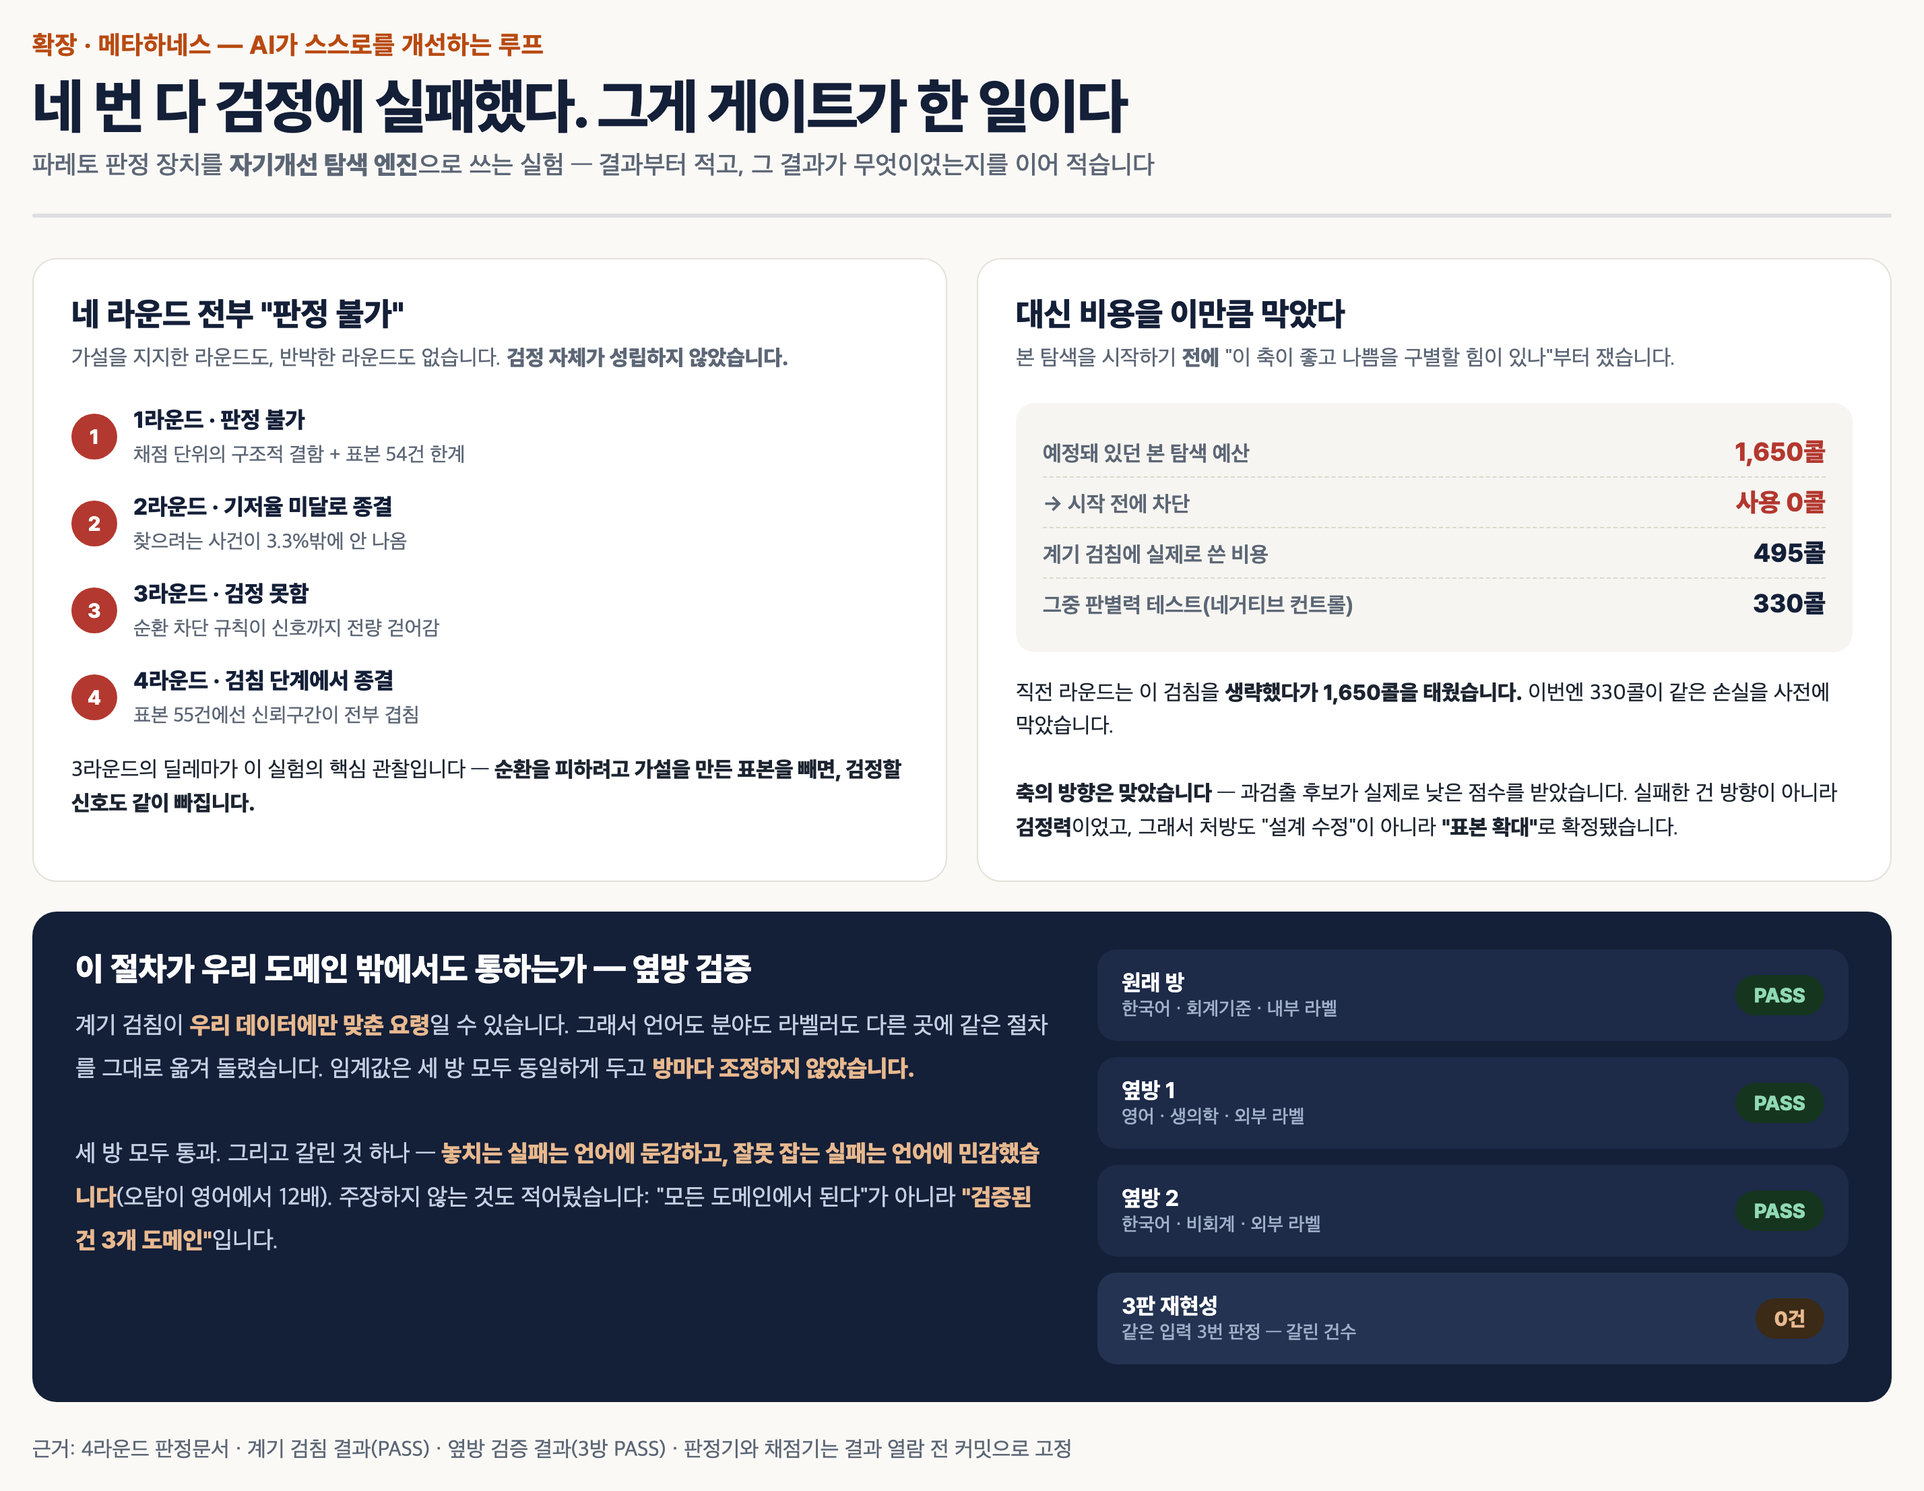
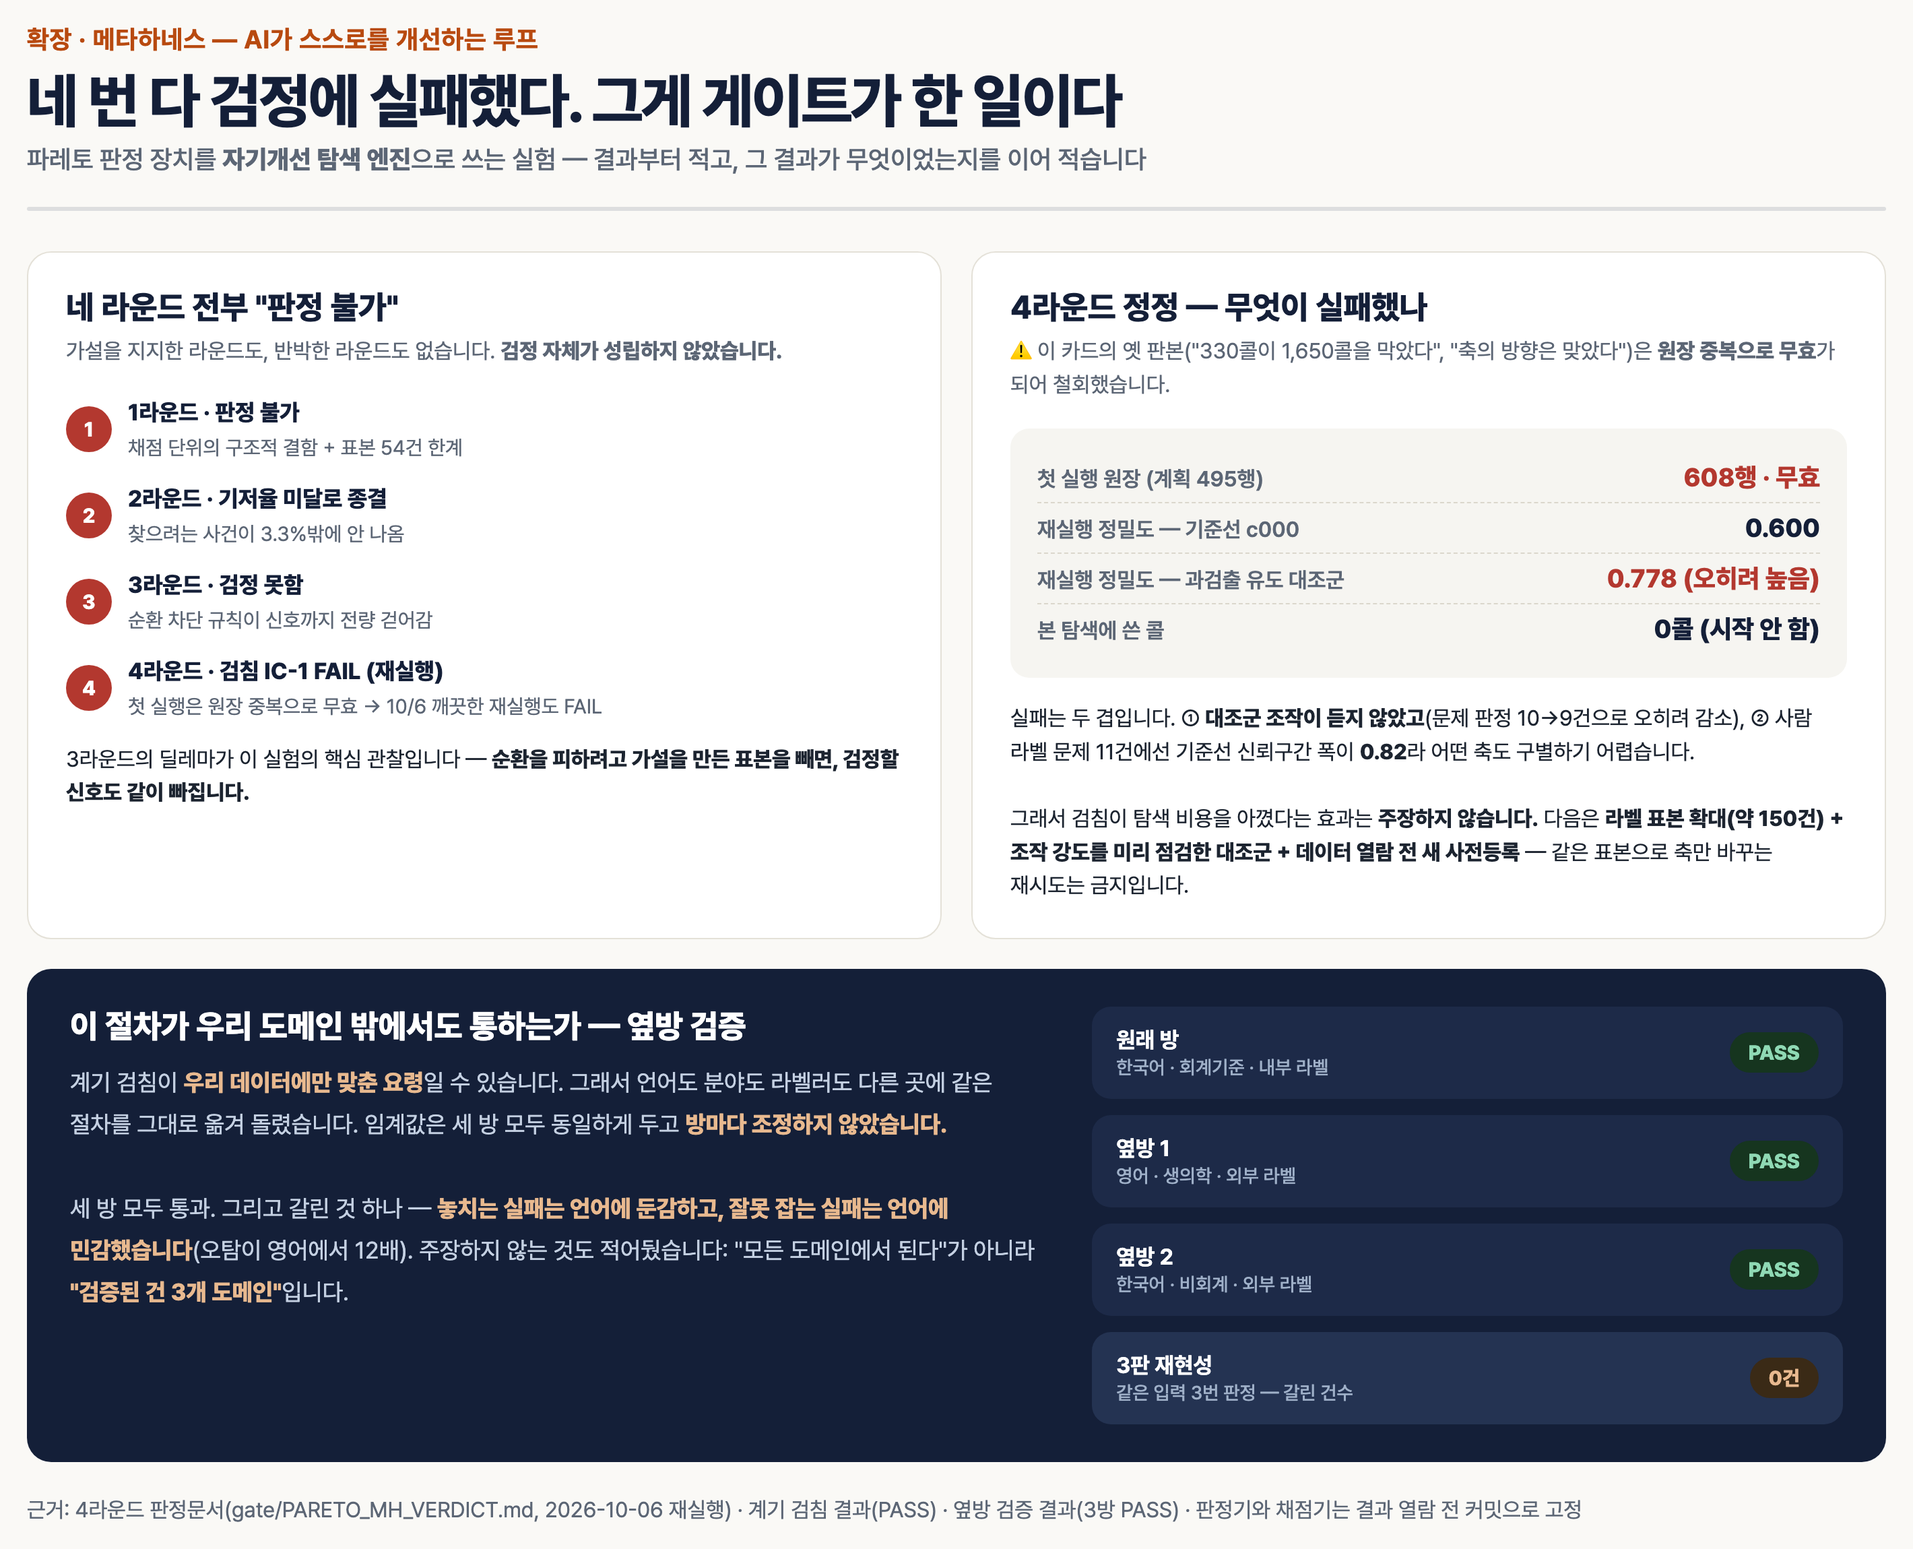
docs: 2026-10-23 literature recheck — multi-objective harness optimizers (HarnessPro, RRSI, Harmony, MoMHa, Meta-Harness++, MOEvo, CRAFT, MO-CAPO); narrow novelty to the combination; fix stale IC-1 claims in field-report fig 05; add landscape infographic

diff --git a/assets/metaharness-landscape.ko.html b/assets/metaharness-landscape.ko.html
@@ -1,0 +1,45 @@
+<!doctype html><html lang="ko"><meta charset="utf-8"><style>
+body{margin:0;width:1500px;background:#FAF9F6;font-family:'Pretendard',-apple-system,'Apple SD Gothic Neo',sans-serif;color:#141F38;word-break:keep-all}
+.w{padding:56px 64px} .k{font-size:22px;color:#B84A10;font-weight:700;letter-spacing:.04em}
+h1{font-size:44px;margin:8px 0 10px} .sub{font-size:22px;color:#5C6675;margin-bottom:26px}
+h2{font-size:27px;margin:0 0 14px}
+.box{background:#fff;border:2px solid #E5E2DA;border-radius:18px;padding:24px 28px;margin-bottom:18px}
+table{border-collapse:collapse;width:100%;font-size:20px}
+th{font-size:19px;color:#5C6675;text-align:left;padding:8px 10px;border-bottom:2px solid #E5E2DA}
+td{padding:9px 10px;border-bottom:1px solid #EEECE6;vertical-align:top}
+td.n{font-weight:700;white-space:nowrap} td.n small{display:block;font-weight:500;color:#888;font-size:15px}
+.y{color:#1E7B4F;font-weight:800} .p{color:#B8860B;font-weight:800} .x{color:#B3382F;font-weight:800}
+tr.us td{background:#FFF6EC} .note{font-size:15px;color:#777;display:block}
+.two{display:grid;grid-template-columns:1fr 1fr;gap:18px}
+.rule{font-size:21px;line-height:1.6} .big{font-size:40px;font-weight:800}
+.foot{font-size:17px;color:#666;line-height:1.5;margin-top:4px}
+</style><div class="w">
+<div class="k">META-HARNESS × PARETO · 2026-10-23 문헌 재대조</div>
+<h1>요소마다 선행이 있다 — 남는 건 '한 판정식 안의 결합'뿐</h1>
+<div class="sub">자기개선 하네스 최적화 구현을 C1의 네 요소로 나눠 대조했다 (읽은 범위 15건 중 주요 10건)</div>
+<div class="box"><table>
+<tr><th style="width:24%">구현</th><th>E1 지표 축 전선 + 지배</th><th>E2 판정 안의 노이즈 규칙</th><th>E3 판정 거부 출력</th><th>E4 탐색 전 축 판별력 검침</th></tr>
+<tr><td class="n">Meta-Harness<small>2603.28052 · 원본</small></td><td class="x">✗ <span class="note">"Pareto dominance" 문장만</span></td><td class="x">✗</td><td class="x">✗</td><td class="x">✗</td></tr>
+<tr><td class="n">GEPA<small>2507.19457 + 레포</small></td><td class="p">△ <span class="note">목적별 최고점만 전선</span></td><td class="x">✗</td><td class="x">✗</td><td class="x">✗</td></tr>
+<tr><td class="n">HarnessPro<small>2610.26770 · 10/20</small></td><td class="y">✅ <span class="note">성능↔비용 지배 필터</span></td><td class="x">✗ <span class="note">과제당 1회 점추정</span></td><td class="x">✗</td><td class="p">△ <span class="note">생성 테스트 재현율 점검</span></td></tr>
+<tr><td class="n">RRSI<small>2609.24972 · 10/4</small></td><td class="x">✗ <span class="note">단일 incumbent</span></td><td class="y">✅ <span class="note">노이즈 대역 δ (전역)</span></td><td class="p">△ <span class="note">대역 안이면 유지</span></td><td class="x">✗</td></tr>
+<tr><td class="n">Harmony Harness<small>2610.15150 · 10/10</small></td><td class="p">△ <span class="note">분해형, 수락은 스칼라</span></td><td class="x">✗</td><td class="x">✗</td><td class="p">△ <span class="note">판정기 보정·채점 잠금</span></td></tr>
+<tr><td class="n">MoMHa<small>2609.30967 · 9/25</small></td><td class="x">✗ <span class="note">가중합, 전선은 사후</span></td><td class="x">✗</td><td class="x">✗</td><td class="x">✗</td></tr>
+<tr><td class="n">Meta-Harness++<small>GitHub 134747a</small></td><td class="y">✅ <span class="note">정확도·토큰·지연</span></td><td class="p">△ <span class="note">전선 밖 승격 단계만 CI</span></td><td class="p">△ <span class="note">승격 보류</span></td><td class="x">✗</td></tr>
+<tr><td class="n">MOEvo · CRAFT · MO-CAPO</td><td class="y">✅</td><td class="p">△ <span class="note">CRAFT 코드 옵션 · MO-CAPO 평가 추가</span></td><td class="x">✗</td><td class="x">✗</td></tr>
+<tr class="us"><td class="n">우리 (명세)<small>pareto-measurement-gates</small></td><td class="y">✅</td><td class="y">✅ <span class="note">후보별 CI 비겹침</span></td><td class="y">✅ <span class="note">INCOMPARABLE</span></td><td class="x">✅ 명세 · <b>실행 FAIL</b> <span class="note">IC-1, 탐색 0콜</span></td></tr>
+</table></div>
+<div class="two">
+<div class="box"><h2>그래서 주장은 이만큼만</h2><div class="rule">
+✅ 네 요소를 <b>한 판정식 안에</b> 명세한 구현은 읽은 범위에 없다<br>
+✗ 요소별 새로움 — 전부 선행 있음<br>
+✗ "결합이 더 나은 탐색을 만든다" — 미검증(C13)<br>
+가장 가까운 선행: GEPA → <b>HarnessPro + RRSI</b></div></div>
+<div class="box"><h2>우리 메타하네스의 현재 위치</h2><div class="rule">
+부품 7종(제안자·실행기·채점·전선·기록·선택·예산) <b class="y">보유</b><br>
+기록 = 기준선 <b>1행</b> · 본 탐색 <b>0콜</b><br>
+막힌 곳 = 계기 검침 IC-1 (라벨 11건, CI 폭 0.82)<br>
+다음 = 라벨 약 150건 + 대조군 사전점검 + 새 사전등록</div></div>
+</div>
+<div class="foot">✅ 갖춤 · △ 부분 · ✗ 없음(읽은 범위). 정본: LIT_CHECK_20261023.md · 정독 노트 3건(인용·절 번호). 판정은 원문 본문·핵심 부록·공개 코드 기준이며, 일부 부록·미공개 코드는 미확인.</div>
+</div></html>

diff --git a/docs/field-report/05_metaharness.html b/docs/field-report/05_metaharness.html
@@ -29,6 +29,8 @@ body{width:1500px}
 .room .nm{font-size:16.5px;font-weight:700;color:#fff}
 .room .nm span{display:block;font-size:14px;color:#9FB0C8;font-weight:500;margin-top:2px}
 .room .pass{font-size:15px;font-weight:800;color:#8FD9B4;background:#16351F;padding:6px 14px;border-radius:999px}
+body{word-break:keep-all}
+.room .pass{white-space:nowrap}
 </style>
 <div class="kicker">확장 · 메타하네스 — AI가 스스로를 개선하는 루프</div>
 <h1>네 번 다 검정에 실패했다. 그게 게이트가 한 일이다</h1>
@@ -42,24 +44,25 @@ body{width:1500px}
     <div class="stage f"><div class="dot">1</div><div class="tx"><b>1라운드 · 판정 불가</b><span>채점 단위의 구조적 결함 + 표본 54건 한계</span></div></div>
     <div class="stage f"><div class="dot">2</div><div class="tx"><b>2라운드 · 기저율 미달로 종결</b><span>찾으려는 사건이 3.3%밖에 안 나옴</span></div></div>
     <div class="stage f"><div class="dot">3</div><div class="tx"><b>3라운드 · 검정 못함</b><span>순환 차단 규칙이 신호까지 전량 걷어감</span></div></div>
-    <div class="stage f"><div class="dot">4</div><div class="tx"><b>4라운드 · 검침 단계에서 종결</b><span>표본 55건에선 신뢰구간이 전부 겹침</span></div></div>
+    <div class="stage f"><div class="dot">4</div><div class="tx"><b>4라운드 · 검침 IC-1 FAIL (재실행)</b><span>첫 실행은 원장 중복으로 무효 → 10/6 깨끗한 재실행도 FAIL</span></div></div>
     <div class="cap" style="margin:16px 0 0;color:var(--text)">3라운드의 딜레마가 이 실험의 핵심 관찰입니다 —
       <b>순환을 피하려고 가설을 만든 표본을 빼면, 검정할 신호도 같이 빠집니다.</b></div>
   </div>
 
   <div class="card2">
-    <h3>대신 비용을 이만큼 막았다</h3>
-    <div class="cap">본 탐색을 시작하기 <b>전에</b> "이 축이 좋고 나쁨을 구별할 힘이 있나"부터 쟀습니다.</div>
+    <h3>4라운드 정정 — 무엇이 실패했나</h3>
+    <div class="cap">⚠ 이 카드의 옛 판본("330콜이 1,650콜을 막았다", "축의 방향은 맞았다")은 <b>원장 중복으로 무효</b>가 되어 철회했습니다.</div>
     <div class="ledger">
-      <div class="r"><div class="k">예정돼 있던 본 탐색 예산</div><div class="v cut">1,650콜</div></div>
-      <div class="r"><div class="k">→ 시작 전에 차단</div><div class="v" style="color:var(--neg)">사용 0콜</div></div>
-      <div class="r"><div class="k">계기 검침에 실제로 쓴 비용</div><div class="v">495콜</div></div>
-      <div class="r"><div class="k">그중 판별력 테스트(네거티브 컨트롤)</div><div class="v">330콜</div></div>
+      <div class="r"><div class="k">첫 실행 원장 (계획 495행)</div><div class="v cut">608행 · 무효</div></div>
+      <div class="r"><div class="k">재실행 정밀도 — 기준선 c000</div><div class="v">0.600</div></div>
+      <div class="r"><div class="k">재실행 정밀도 — 과검출 유도 대조군</div><div class="v" style="color:var(--neg)">0.778 (오히려 높음)</div></div>
+      <div class="r"><div class="k">본 탐색에 쓴 콜</div><div class="v">0콜 (시작 안 함)</div></div>
     </div>
     <div class="cap" style="margin:18px 0 0;color:var(--text)">
-      직전 라운드는 이 검침을 <b>생략했다가 1,650콜을 태웠습니다.</b> 이번엔 330콜이 같은 손실을 사전에 막았습니다.<br><br>
-      <b>축의 방향은 맞았습니다</b> — 과검출 후보가 실제로 낮은 점수를 받았습니다.
-      실패한 건 방향이 아니라 <b>검정력</b>이었고, 그래서 처방도 "설계 수정"이 아니라 <b>"표본 확대"</b>로 확정됐습니다.
+      실패는 두 겹입니다. ① <b>대조군 조작이 듣지 않았고</b>(문제 판정 10→9건으로 오히려 감소),
+      ② 사람 라벨 문제 11건에선 기준선 신뢰구간 폭이 <b>0.82</b>라 어떤 축도 구별하기 어렵습니다.<br><br>
+      그래서 검침이 탐색 비용을 아꼈다는 효과는 <b>주장하지 않습니다.</b>
+      다음은 <b>라벨 표본 확대(약 150건) + 조작 강도를 미리 점검한 대조군 + 데이터 열람 전 새 사전등록</b> — 같은 표본으로 축만 바꾸는 재시도는 금지입니다.
     </div>
   </div>
 </div>
@@ -80,4 +83,4 @@ body{width:1500px}
   </div>
 </div>
 
-<div class="foot">근거: 4라운드 판정문서 · 계기 검침 결과(PASS) · 옆방 검증 결과(3방 PASS) · 판정기와 채점기는 결과 열람 전 커밋으로 고정</div>
+<div class="foot">근거: 4라운드 판정문서(gate/PARETO_MH_VERDICT.md, 2026-10-06 재실행) · 계기 검침 결과(PASS) · 옆방 검증 결과(3방 PASS) · 판정기와 채점기는 결과 열람 전 커밋으로 고정</div>

diff --git a/README.md b/README.md
@@ -611,9 +611,17 @@ done
 
 ### 메타하네스 문헌 대조 (결정 15)
 
-front를 부모 선택 규칙으로 쓰는 사례를 찾기 위한 6소스 대조. 요지는
-"자기개선 계층에는 없고, 타 도메인(수식 발견·라우팅)에만 부분적으로 있다"이며
-표는 [`gate/PARETO_META_HARNESS_DESIGN.md`](gate/PARETO_META_HARNESS_DESIGN.md) §2.
+front를 부모 선택 규칙으로 쓰는 사례를 찾기 위한 6소스 대조(2026-08). 표는
+[`gate/PARETO_META_HARNESS_DESIGN.md`](gate/PARETO_META_HARNESS_DESIGN.md) §2.
+
+> ⚠ **2026-10-23 정정:** 당시 요지("자기개선 계층에는 없다")는 낡았다. 2026년 5~10월에
+> 다목적 하네스 최적화가 연달아 나왔다 — 성능↔비용 지배 필터와 전선 기반 다음 세대
+> 선택(HarnessPro, arXiv 2610.26770), 노이즈 대역 수락(RRSI, 2609.24972), 분해형 다목적
+> 진화(Harmony Harness, 2610.15150), 가중합 3축(MoMHa, 2609.30967), Meta-Harness++, MOEvo,
+> 프롬프트 층의 CRAFT·MO-CAPO. 요소별로는 전부 선행이 있다. 남는 것은 **지표 축 전선의 지배
+> 판정 안에 노이즈 규칙·판정 거부를 두고 탐색 전에 축 판별력을 검침하는 결합**뿐이며,
+> 우리는 그 결합을 명세했을 뿐 효과는 보이지 못했다(IC-1 FAIL, 탐색 0콜).
+> ![메타하네스 지형도](assets/metaharness-landscape.ko.png)
 🔴 그중 TRACE-Router가 남긴 경고 — **front 점유 주장에는 무작위 혼합 대조군이
 필요하다**("random mixture also traces the line segment").
 

diff --git a/README.en.md b/README.en.md
@@ -708,10 +708,19 @@ one assumes — and where they fail to hold for a harness — are in
 
 ### Meta-harness literature survey (decision 15)
 
-A six-source survey looking for front-as-parent-selection. The finding: absent in
-the self-improvement layer, only partially present in other domains (equation
-discovery, routing). Table in
+A six-source survey looking for front-as-parent-selection (2026-08). Table in
 [`gate/PARETO_META_HARNESS_DESIGN.md`](gate/PARETO_META_HARNESS_DESIGN.md) §2.
+
+> ⚠ **Correction (2026-10-23):** the original finding ("absent in the
+> self-improvement layer") is outdated. Multi-objective harness optimizers
+> appeared through May–Oct 2026: a performance-cost dominance filter whose
+> selected harnesses seed the next round (HarnessPro, arXiv 2610.26770), a
+> noise-band acceptance rule (RRSI, 2609.24972), decomposition-based evolution
+> (Harmony Harness, 2610.15150), a weighted three-axis reward (MoMHa, 2609.30967),
+> Meta-Harness++, MOEvo, and prompt-layer CRAFT and MO-CAPO. Every element has
+> prior work. What remains is only the **combination** — noise rules and refusal
+> inside metric-axis dominance plus a pre-search axis-discrimination check — and
+> we only specified it; its benefit is untested (IC-1 FAIL, zero search calls).
 🔴 The warning TRACE-Router left behind — **claims of front occupancy require a
 random-mixture control** ("random mixture also traces the line segment").
 

diff --git a/README.zh-CN.md b/README.zh-CN.md
@@ -601,9 +601,15 @@ done
 
 ### 元 harness 文献对照（决定 15）
 
-为寻找"以 front 作为父代选择规则"的六源对照。结论是：
-自我改进层中不存在，仅在其他领域（公式发现、路由）部分存在。表见
+为寻找"以 front 作为父代选择规则"的六源对照（2026-08）。表见
 [`gate/PARETO_META_HARNESS_DESIGN.md`](gate/PARETO_META_HARNESS_DESIGN.md) §2。
+
+> ⚠ **更正（2026-10-23）：** 当时的结论（"自我改进层中不存在"）已过时。2026 年 5–10 月
+> 出现了多目标 harness 优化：HarnessPro（arXiv 2610.26770，性能↔成本支配过滤）、
+> RRSI（2609.24972，噪声带接受规则）、Harmony Harness（2610.15150）、MoMHa（2609.30967）、
+> Meta-Harness++、MOEvo，以及提示层的 CRAFT、MO-CAPO。各要素均有先行工作；剩下的只是
+> **在指标轴前沿的支配判定内部加入噪声规则与拒绝判定、并在搜索前检验轴区分力的组合**，
+> 且我们只给出了规范，效果未经检验（IC-1 FAIL，搜索 0 次调用）。
 🔴 其中 TRACE-Router 留下的警告 —— **关于 front 占据的主张需要随机混合对照组**
 （"random mixture also traces the line segment"）。
 

diff --git a/skill-pareto/SKILL.md b/skill-pareto/SKILL.md
@@ -314,7 +314,7 @@ top-k에 신호를 넣는(주입/부스트/재랭크) 개입의 채택 판정은
 
 ## 문헌 지위 (2026-08-03, 6소스 정독 — probe-graph-public 결정 15)
 
-- **front-as-parent 규칙은 harness 자기개선 계층에 없다** (전 도메인 주장 아님 — 좁힌 문구가 정본).
+- ~~front-as-parent 규칙은 harness 자기개선 계층에 없다~~ → **2026-10-23 철회.** HarnessPro(arXiv 2610.26770)는 비지배 집합에서 고른 하네스를 다음 세대에 넣고, RRSI(2609.24972)는 노이즈 대역 수락을 둔다. 남는 새로움은 "지배 판정 안 노이즈 규칙·판정 거부 + 탐색 전 축 판별력 검침"의 결합뿐이다.
   타 계층엔 실증 존재: GEPA(프롬프트 계층), **MOT-SR**(arXiv 2607.29561, 수식발견 —
   front→SyntaxDiv 다양성 softmax 부모샘플링. 단 그 규칙 자체 ablation 없음·통계검정 전무).
 - **TRACE-Router**(arXiv 2607.22465)의 이식 규칙 2건: ① 귀속 처방 = "결정 입자를 감독
